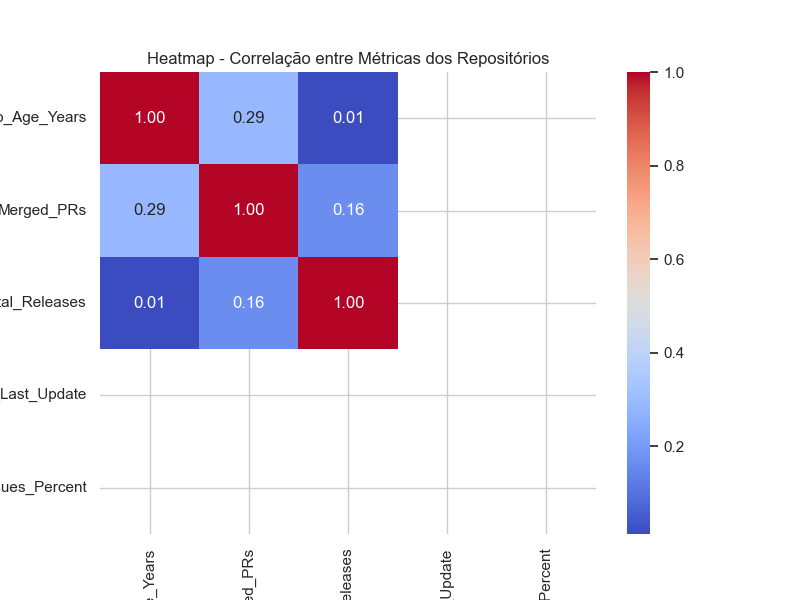
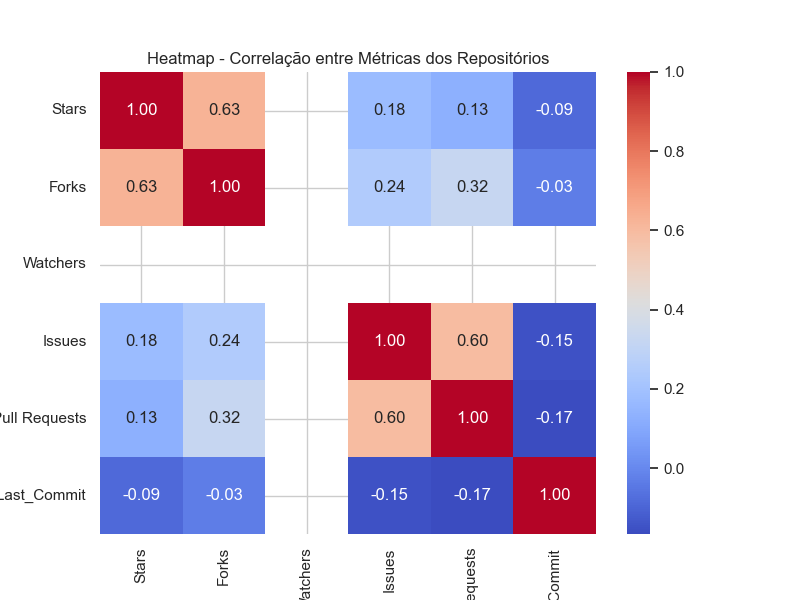
fix: generate csv graphics

diff --git a/graphic_generator.py b/graphic_generator.py
@@ -1,99 +1,66 @@
 import pandas as pd
-import re
-from datetime import datetime
 import seaborn as sns
 import matplotlib.pyplot as plt
 import os
+from datetime import datetime
 
+# Criar pasta para gráficos
 os.makedirs('graphics', exist_ok=True)
 
-repos_data = []
+# ===============================
+# Leitura do CSV
+# ===============================
+df = pd.read_csv('repos_info_with_issues_prs.csv')
 
-with open('lab_popular_repositories.txt', 'r', encoding='utf-8') as file:
-    content = file.read()
+# Converter data de último commit e remover timezone
+df['Last Commit Date'] = pd.to_datetime(df['Last Commit Date'], errors='coerce').dt.tz_localize(None)
 
-repos = content.split('====================================================================================================')
+# Calcular dias desde último commit
+today = datetime(2025, 8, 27)
+df['Days_Since_Last_Commit'] = (today - df['Last Commit Date']).dt.days
 
-for repo in repos:
-    if 'REPOSITÓRIO' in repo:
-        name = re.search(r'REPOSITÓRIO \d+: (\S+)', repo)
-        created_at = re.search(r'RQ01 - Created At: ([\d\-T:Z]+)', repo)
-        merged_prs = re.search(r'RQ02_Merged_PRs: (\d+)', repo)
-        total_releases = re.search(r'RQ03_Total_Releases: (\d+)', repo)
-        last_update = re.search(r'RQ04 - Last Update: ([\d\-T:Z]+)', repo)
-        language = re.search(r'RQ05 - Primary Language: (.+)', repo)
-        closed_issues = re.search(r'RQ06 - Closed Issues: (\d+)', repo)
-        total_issues = re.search(r'RQ06 - Total Issues: (\d+)', repo)
-
-        closed_percent = 0
-        if total_issues and int(total_issues.group(1)) > 0:
-            closed_percent = int(closed_issues.group(1)) / int(total_issues.group(1)) * 100
-        
-        repos_data.append({
-            'Name': name.group(1) if name else None,
-            'Created_At': datetime.fromisoformat(created_at.group(1).replace('Z','')) if created_at else None,
-            'Merged_PRs': int(merged_prs.group(1)) if merged_prs else 0,
-            'Total_Releases': int(total_releases.group(1)) if total_releases else 0,
-            'Last_Update': datetime.fromisoformat(last_update.group(1).replace('Z','')) if last_update else None,
-            'Primary_Language': language.group(1).strip() if language else 'Not specified',
-            'Closed_Issues_Percent': closed_percent
-        })
-
-df = pd.DataFrame(repos_data)
-
-today = datetime(2025, 8, 27) 
-df['Repo_Age_Years'] = (today - df['Created_At']).dt.days / 365
-df['Days_Since_Last_Update'] = (today - df['Last_Update']).dt.days
-
+# ===============================
+# Visualizações
+# ===============================
 sns.set(style="whitegrid")
 plt.rcParams['figure.figsize'] = (10,6)
 
-# ===============================
-# RQ01 - Idade dos repositórios (Histograma)
-# ===============================
+# RQ01 - Dias desde o último commit (Histograma)
 plt.figure()
-sns.histplot(df['Repo_Age_Years'], bins=20, kde=True, color='skyblue')
-plt.title('RQ01 - Idade dos Repositórios (Histograma)')
-plt.xlabel('Idade (anos)')
+sns.histplot(df['Days_Since_Last_Commit'], bins=30, color='skyblue')
+plt.title('RQ01 - Dias desde o Último Commit (Histograma)')
+plt.xlabel('Dias desde último commit')
 plt.ylabel('Quantidade de Repositórios')
-plt.savefig('graphics/RQ01_Idade_Repositorios.png')
+plt.savefig('graphics/RQ01_Dias_Ultimo_Commit.png')
 plt.show()
 
-# ===============================
-# RQ02 - Contribuições externas (Gráfico de Violino)
-# ===============================
+# RQ02 - Pull Requests (Violino)
 plt.figure()
-sns.violinplot(y=df['Merged_PRs'], color='lightgreen')
-plt.title('RQ02 - Distribuição de Pull Requests Aceitas (Violino)')
-plt.ylabel('Número de PRs Aceitas')
-plt.savefig('graphics/RQ02_PRs_Aceitas.png')
+sns.violinplot(y=df['Pull Requests'], color='lightgreen')
+plt.title('RQ02 - Distribuição de Pull Requests (Violino)')
+plt.ylabel('Número de Pull Requests')
+plt.savefig('graphics/RQ02_Pull_Requests.png')
 plt.show()
 
-# ===============================
-# RQ03 - Número de Releases (Boxplot)
-# ===============================
+# RQ03 - Forks (Boxplot)
 plt.figure()
-sns.boxplot(x=df['Total_Releases'], color='lightcoral')
-plt.title('RQ03 - Total de Releases por Repositório (Boxplot)')
-plt.xlabel('Total de Releases')
-plt.savefig('graphics/RQ03_Total_Releases.png')
+sns.boxplot(x=df['Forks'], color='lightcoral')
+plt.title('RQ03 - Total de Forks por Repositório (Boxplot)')
+plt.xlabel('Total de Forks')
+plt.savefig('graphics/RQ03_Forks.png')
 plt.show()
 
-# ===============================
-# RQ04 - Dias desde a última atualização (Histograma)
-# ===============================
+# RQ04 - Dias desde última atualização (Histograma)
 plt.figure()
-sns.histplot(df['Days_Since_Last_Update'], bins=30, color='orchid')
+sns.histplot(df['Days_Since_Last_Commit'], bins=30, color='orchid')
 plt.title('RQ04 - Dias desde a Última Atualização (Histograma)')
-plt.xlabel('Dias')
+plt.xlabel('Dias desde última atualização')
 plt.ylabel('Quantidade de Repositórios')
 plt.savefig('graphics/RQ04_Dias_Ultima_Atualizacao.png')
 plt.show()
 
-# ===============================
 # RQ05 - Linguagens mais populares (Barplot)
-# ===============================
-language_counts = df['Primary_Language'].value_counts().head(10)
+language_counts = df['Main Language'].value_counts().head(10)
 plt.figure()
 sns.barplot(x=language_counts.values, y=language_counts.index, palette="viridis")
 plt.title('RQ05 - Top 10 Linguagens em Repositórios Populares (Barplot)')
@@ -102,20 +69,16 @@ plt.ylabel('Linguagem')
 plt.savefig('graphics/RQ05_Linguagens_Populares.png')
 plt.show()
 
-# ===============================
-# RQ06 - Percentual de issues fechadas (Violin plot)
-# ===============================
+# RQ06 - Issues (Violino)
 plt.figure()
-sns.violinplot(y=df['Closed_Issues_Percent'], color='gold')
-plt.title('RQ06 - Percentual de Issues Fechadas (Violino)')
-plt.ylabel('% de Issues Fechadas')
-plt.savefig('graphics/RQ06_Issues_Fechadas.png')
+sns.violinplot(y=df['Issues'], color='gold')
+plt.title('RQ06 - Distribuição de Issues Totais (Violino)')
+plt.ylabel('Número de Issues')
+plt.savefig('graphics/RQ06_Issues.png')
 plt.show()
 
-# ===============================
-# Heatmap de correlação entre métricas numéricas
-# ===============================
-numeric_cols = ['Repo_Age_Years', 'Merged_PRs', 'Total_Releases', 'Days_Since_Last_Update', 'Closed_Issues_Percent']
+# Heatmap de correlação (apenas numéricos)
+numeric_cols = ['Stars', 'Forks', 'Watchers', 'Issues', 'Pull Requests', 'Days_Since_Last_Commit']
 corr = df[numeric_cols].corr()
 
 plt.figure(figsize=(8,6))
@@ -124,14 +87,10 @@ plt.title('Heatmap - Correlação entre Métricas dos Repositórios')
 plt.savefig('graphics/Heatmap_Correlacao.png')
 plt.show()
 
-# ===============================
-# Estatísticas resumidas
-# ===============================
 print("===== Estatísticas Resumidas =====")
-print("Idade mediana (anos):", df['Repo_Age_Years'].median())
-print("PRs aceitas mediana:", df['Merged_PRs'].median())
-print("Releases medianas:", df['Total_Releases'].median())
-print("Dias desde última atualização mediana:", df['Days_Since_Last_Update'].median())
-print("Percentual médio de issues fechadas:", df['Closed_Issues_Percent'].median())
+print("Dias desde último commit (mediana):", df['Days_Since_Last_Commit'].median())
+print("Pull Requests (mediana):", df['Pull Requests'].median())
+print("Forks (mediana):", df['Forks'].median())
+print("Issues (mediana):", df['Issues'].median())
 print("Top 10 linguagens:")
 print(language_counts)
